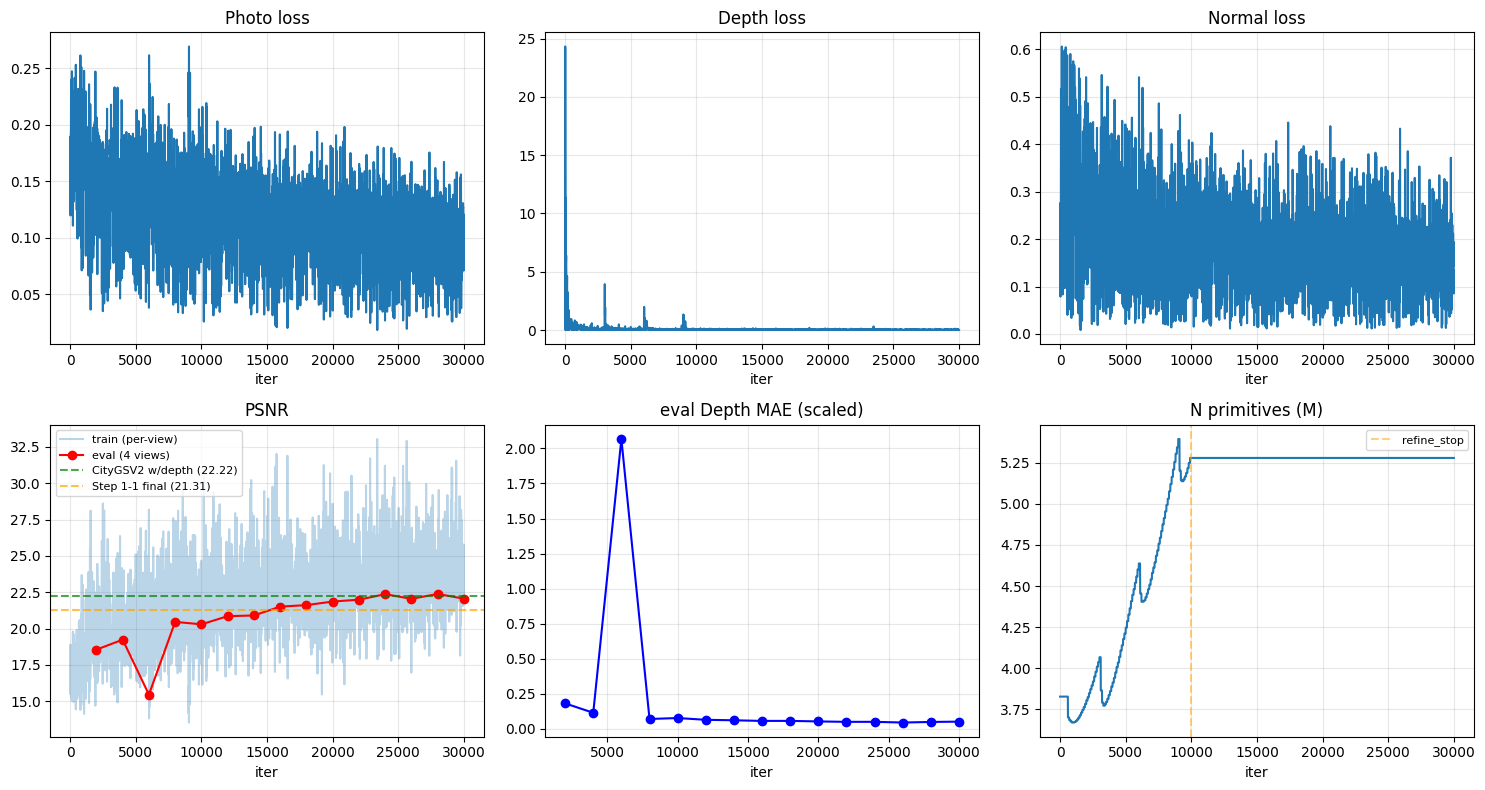
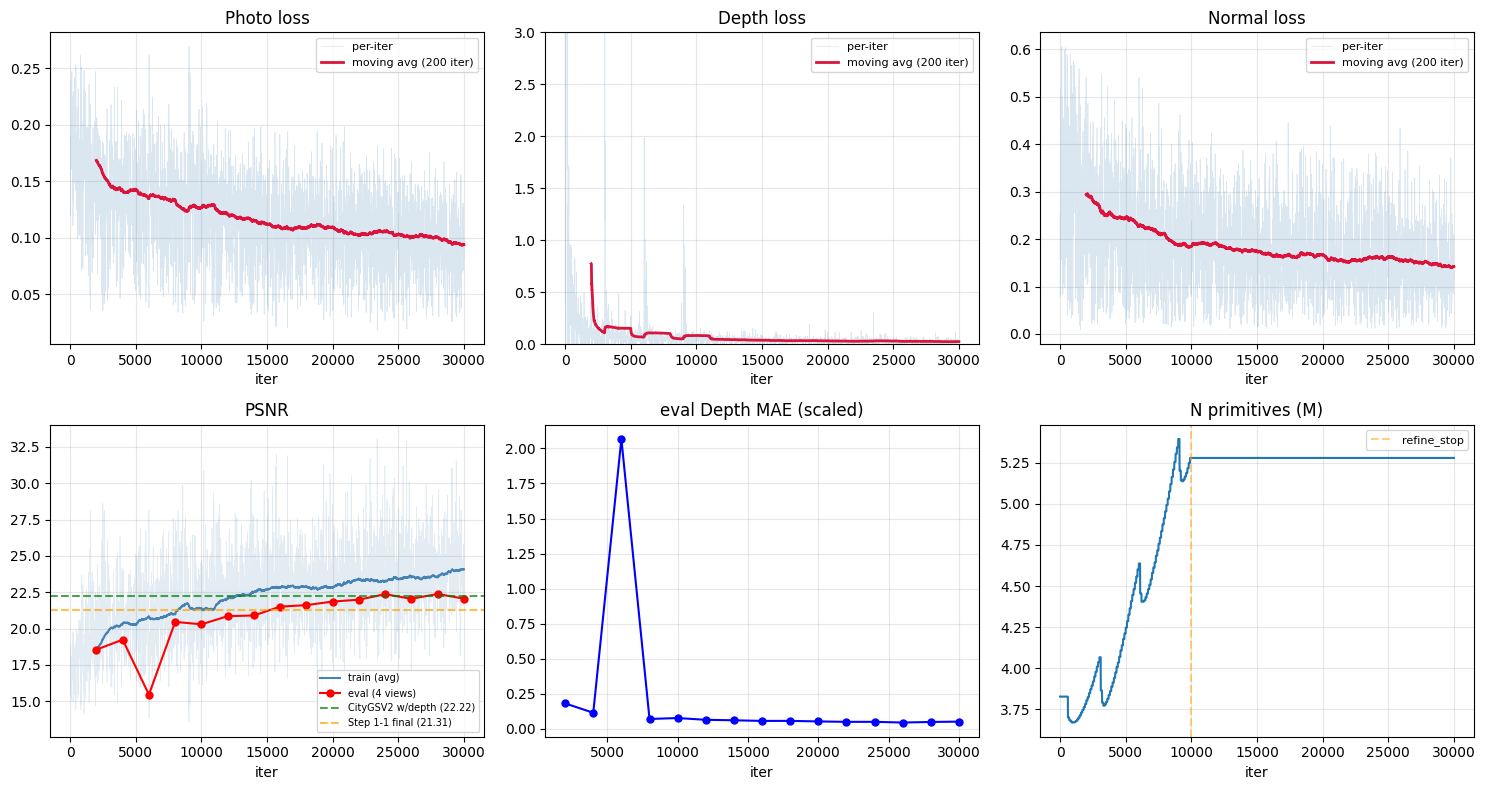
docs: smoothed training curves with 200-iter moving avg for Step 1-2 REPORT

diff --git a/results/phase1_depth_normal/REPORT.md b/results/phase1_depth_normal/REPORT.md
@@ -13,9 +13,13 @@ Step 1-1 파이프라인에 **L_depth + L_normal** 감독을 추가하여 Matrix
 
 ![Training curves](figures/training_curves.png)
 
-- **Photo loss**: 꾸준히 감소 (0.19 → 0.10)
-- **Depth loss**: 초기 24 → 0.04 (스케일 매칭 후 급락, iter 6k에서 reset 여파로 일시 peak)
-- **Normal loss**: 진동하나 추세 하강
+그래프의 **빨간 선은 200-iter moving average**, 연한 파란 점은 per-iter 원시값. 매 iter 랜덤 뷰 샘플링으로 원시값은 진동하나 평균은 선명한 추세를 보임.
+
+- **Photo loss**: 0.178 → 0.094 (47% ↓)
+- **Depth loss**: 초기 peak 24 → 0.025 (y축 3으로 clip). 스케일 매칭 후 급락.
+- **Normal loss**: 0.293 → 0.141 (52% ↓)
+- **eval PSNR (빨간 점)**: 20k 이후 CityGSV2 w/depth baseline(22.22, 녹색 점선) 근접·일부 초과. final 22.06, max 22.39 (iter 28k).
+- **N**: 3.83M → 5.28M (refine_stop 10k 이후 안정)
 - **eval PSNR (빨강)**: 20k 이후 CityGSV2 w/depth baseline(22.22, 녹색) 근접·일부 초과. 24k=22.37, 28k=22.39, 30k=22.06
 - **N**: 3.83M → 5.28M (refine_stop 10k 이후 안정)
 
